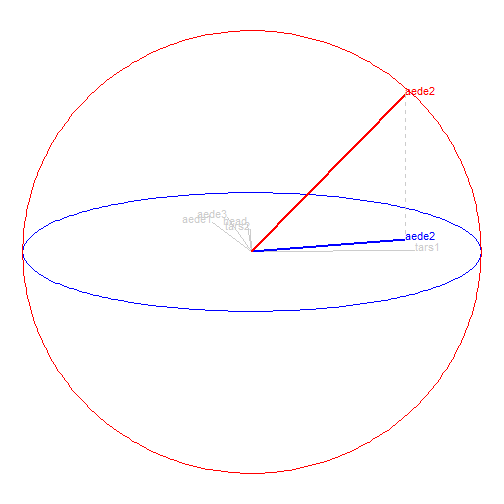
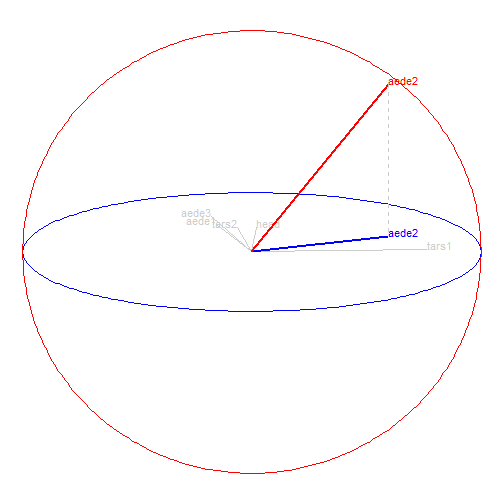
another RO letters to numbers.

Changed region(s): [[0.3571, 0.3869, 0.8929, 0.506], [0.625, 0.1488, 0.8631, 0.3571], [0.5952, 0.3571, 0.625, 0.3869]]

diff --git a/slides_ns.html b/slides_ns.html
@@ -75,10 +75,10 @@ of the sensitivity of structure to the original variables or parameters? **
 --
 
 **Research objectives:**
-- A) Can user controlled steering (UCS) be utilized in an environment providing non-interactive animation?
-- B) What benefits does UCS provide over popular alternatives?
-- C) How do we extend UCS to 3D?
-- D) Does UCS with 3D displays provide perception benefits over 2D displays?
+- 1) Can user controlled steering (UCS) be utilized in an environment providing non-interactive animation?
+- 2) What benefits does UCS provide over popular alternatives?
+- 3) How do we extend UCS to 3D?
+- 4) Does UCS with 3D displays provide perception benefits over 2D displays?
 
 ---
 
@@ -118,33 +118,33 @@ of the sensitivity of structure to the original variables or parameters? **
 &lt;tbody&gt;
   &lt;tr&gt;
    &lt;td style="text-align:left;"&gt; tars1 &lt;/td&gt;
-   &lt;td style="text-align:right;"&gt; 0.7129 &lt;/td&gt;
-   &lt;td style="text-align:right;"&gt; 0.0325 &lt;/td&gt;
+   &lt;td style="text-align:right;"&gt; 0.7658 &lt;/td&gt;
+   &lt;td style="text-align:right;"&gt; 0.0464 &lt;/td&gt;
   &lt;/tr&gt;
   &lt;tr&gt;
    &lt;td style="text-align:left;"&gt; tars2 &lt;/td&gt;
-   &lt;td style="text-align:right;"&gt; -0.0069 &lt;/td&gt;
-   &lt;td style="text-align:right;"&gt; 0.3875 &lt;/td&gt;
+   &lt;td style="text-align:right;"&gt; -0.0625 &lt;/td&gt;
+   &lt;td style="text-align:right;"&gt; 0.4088 &lt;/td&gt;
   &lt;/tr&gt;
   &lt;tr&gt;
    &lt;td style="text-align:left;"&gt; head &lt;/td&gt;
-   &lt;td style="text-align:right;"&gt; -0.0218 &lt;/td&gt;
-   &lt;td style="text-align:right;"&gt; 0.4629 &lt;/td&gt;
+   &lt;td style="text-align:right;"&gt; 0.0200 &lt;/td&gt;
+   &lt;td style="text-align:right;"&gt; 0.4200 &lt;/td&gt;
   &lt;/tr&gt;
   &lt;tr&gt;
    &lt;td style="text-align:left;"&gt; aede1 &lt;/td&gt;
-   &lt;td style="text-align:right;"&gt; -0.1723 &lt;/td&gt;
-   &lt;td style="text-align:right;"&gt; 0.4970 &lt;/td&gt;
+   &lt;td style="text-align:right;"&gt; -0.1535 &lt;/td&gt;
+   &lt;td style="text-align:right;"&gt; 0.4694 &lt;/td&gt;
   &lt;/tr&gt;
   &lt;tr&gt;
    &lt;td style="text-align:left;"&gt; aede2 &lt;/td&gt;
-   &lt;td style="text-align:right;"&gt; 0.6712 &lt;/td&gt;
-   &lt;td style="text-align:right;"&gt; 0.2043 &lt;/td&gt;
+   &lt;td style="text-align:right;"&gt; 0.5953 &lt;/td&gt;
+   &lt;td style="text-align:right;"&gt; 0.2691 &lt;/td&gt;
   &lt;/tr&gt;
   &lt;tr&gt;
    &lt;td style="text-align:left;"&gt; aede3 &lt;/td&gt;
-   &lt;td style="text-align:right;"&gt; -0.1052 &lt;/td&gt;
-   &lt;td style="text-align:right;"&gt; 0.5880 &lt;/td&gt;
+   &lt;td style="text-align:right;"&gt; -0.1772 &lt;/td&gt;
+   &lt;td style="text-align:right;"&gt; 0.6013 &lt;/td&gt;
   &lt;/tr&gt;
 &lt;/tbody&gt;
 &lt;/table&gt;
